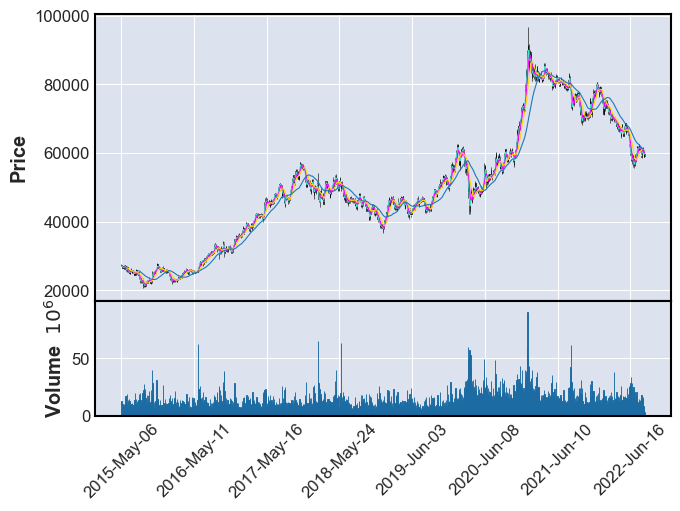
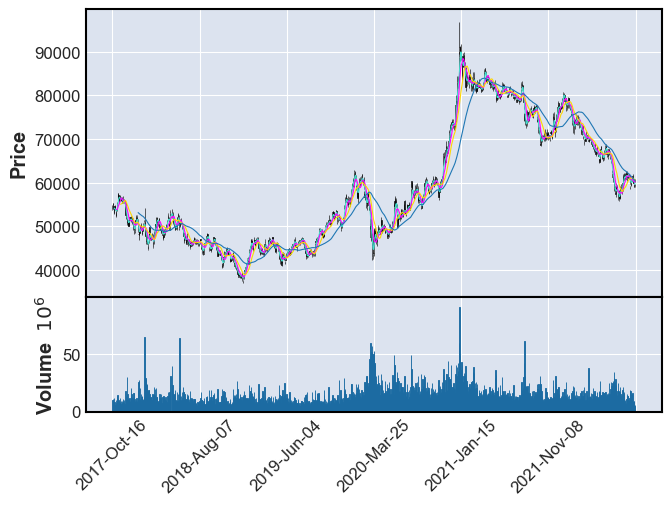
readme update

diff --git a/README.md b/README.md
@@ -54,6 +54,9 @@ import sys
 print(sys.executable)
 ```
 
+    d:\1git\kw_condition\.venv\Scripts\python.exe
+    
+
 ### 1. 객체 생성
 
 
@@ -74,6 +77,9 @@ else:
 kw_obj = KiwoomOpenApiPlus()
 ```
 
+    make instance
+    
+
 ### 2. 서버접속
 * 자동로그인이 설정되어 있는 경우 로그인이 자동으로 처리 되며, 그렇지 않은 경우 팝업 창에서 수동으로 아이디, 비밀번호 정보를 입력해야함 
 - TODO
@@ -85,9 +91,9 @@ kw_obj.tryConnect()
 common_util.process_qt_events(kw_obj.isConnected, 60)
 ```
 
-    * 13:07:02.367131 tryConnect 
-    * 13:07:44.314052 _OnEventConnect 0
-    * 13:07:44.325764 connected_entered 
+    * 10:28:03.288871 tryConnect 
+    * 10:28:10.759517 _OnEventConnect 0
+    * 10:28:10.767524 connected_entered 
     account count: 1, keyboard_boan: 1, firewall: 2
     
 
@@ -142,14 +148,13 @@ kw_obj.get_transaction_result(rqname)
 
 ```
 
-    * 13:08:19.461797 request_transaction  {'rqname': '주식기본정보요청', 'trcode': 'opt10001', 'screen_no': '0001', 'prev_next': 0, 'inputs': {'종목코드': '005930'}}
-    * 13:08:19.528296 _OnReceiveTrData  sScrNo: 0001, rQName: 주식기본정보요청, trCode: opt10001, recordName: , prevNext 0
+    * 10:28:17.061208 _OnReceiveTrData  sScrNo: 9199, rQName: 주식기본정보요청, trCode: opt10001, recordName: , prevNext 0
     
 
 
 
 
-    ['005930', '+76700', '-41300', '59000']
+    ['005930', '+77600', '-41800', '59700']
 
 
 
@@ -177,19 +182,18 @@ print( len(daily_list) )
 daily_list[-5: ] 
 ```
 
-    * 13:08:31.164174 request_transaction  {'rqname': '주식일봉차트조회요청', 'trcode': 'opt10081', 'screen_no': '9200', 'prev_next': 0, 'inputs': {'종목코드': '005930', '기준일자': '20220825', '수정주가구분': '1'}}
-    * 13:08:31.327347 _OnReceiveTrData  sScrNo: 9200, rQName: 주식일봉차트조회요청, trCode: opt10081, recordName: , prevNext 2
+    * 10:28:19.923360 _OnReceiveTrData  sScrNo: 9198, rQName: 주식일봉차트조회요청, trCode: opt10081, recordName: , prevNext 2
     600
     
 
 
 
 
-    [['', '20200330', '47050', '48350', '46550', '47850', '26797395'],
+    [['', '20200331', '48000', '48500', '47150', '47750', '30654261'],
+     ['', '20200330', '47050', '48350', '46550', '47850', '26797395'],
      ['', '20200327', '49600', '49700', '46850', '48300', '39896178'],
      ['', '20200326', '49000', '49300', '47700', '47800', '42185129'],
-     ['', '20200325', '48950', '49600', '47150', '48650', '52735922'],
-     ['', '20200324', '43850', '46950', '43050', '46950', '49801908']]
+     ['', '20200325', '48950', '49600', '47150', '48650', '52735922']]
 
 
 
@@ -221,19 +225,18 @@ daily_list[ -5:]
 
 ```
 
-    * 13:09:07.443514 request_transaction  {'rqname': '주식일봉차트조회요청', 'trcode': 'opt10081', 'screen_no': '9180', 'prev_next': 2, 'inputs': {'종목코드': '005930', '기준일자': '20220825', '수정주가구분': '1'}}
-    * 13:09:07.810523 _OnReceiveTrData  sScrNo: 9180, rQName: 주식일봉차트조회요청, trCode: opt10081, recordName: , prevNext 2
-    1800
+    * 10:28:22.925695 _OnReceiveTrData  sScrNo: 9197, rQName: 주식일봉차트조회요청, trCode: opt10081, recordName: , prevNext 2
+    1200
     
 
 
 
 
-    [['', '20150512', '26900', '27060', '26480', '26620', '10633200'],
-     ['', '20150511', '27200', '27200', '26720', '26720', '9640450'],
-     ['', '20150508', '27320', '27400', '26760', '26760', '9488100'],
-     ['', '20150507', '27240', '27500', '27080', '27400', '10257400'],
-     ['', '20150506', '27800', '27820', '27120', '27240', '13270500']]
+    [['', '20171020', '52800', '54100', '52800', '53840', '8027050'],
+     ['', '20171019', '54700', '54700', '52980', '52980', '12108700'],
+     ['', '20171018', '54820', '55240', '54040', '54760', '10110750'],
+     ['', '20171017', '54020', '55380', '54000', '54800', '10607800'],
+     ['', '20171016', '53980', '54860', '53760', '53920', '9769950']]
 
 
 
@@ -269,11 +272,11 @@ mpf.plot(daily_df, type='candle', mav=(5, 10, 20, 60), volume= True)
 
                  Open   High    Low  Close    Volume
     Date                                            
-    2015-05-06  27800  27820  27120  27240  13270500
-    2015-05-07  27240  27500  27080  27400  10257400
-    2015-05-08  27320  27400  26760  26760   9488100
-    2015-05-11  27200  27200  26720  26720   9640450
-    2015-05-12  26900  27060  26480  26620  10633200
+    2017-10-16  53980  54860  53760  53920   9769950
+    2017-10-17  54020  55380  54000  54800  10607800
+    2017-10-18  54820  55240  54040  54760  10110750
+    2017-10-19  54700  54700  52980  52980  12108700
+    2017-10-20  52800  54100  52800  53840   8027050
     
 
     d:\1git\kw_condition\.venv\lib\site-packages\mplfinance\_arg_validators.py:36: UserWarning: 
@@ -299,12 +302,68 @@ mpf.plot(daily_df, type='candle', mav=(5, 10, 20, 60), volume= True)
     
 
 
+### 7. 전종목 일봉 Excel 출력
+전체 종목의 일봉 데이터를 Excel 로 만든다 
+
+주의사항: 과도한 조회는 오류 팝업 발생 후 재접속 해야 하므로 주의!
+
 
 ```python
+import datetime
+import pandas as pd
+import time
 
+current_time_str = datetime.datetime.now().strftime('%Y%m%d')
+
+for code in kw_obj.code_by_names.values():
+    trcode = 'opt10081'
+    stock_name = kw_obj.getMasterCodeName( code )
+    rqname = '{}: 주식일봉차트조회요청'.format( stock_name ) 
+
+    inputs = {'종목코드': '{}'.format( code ), '기준일자' : current_time_str, "수정주가구분": '1'}
+
+    daily_list = []
+    prev_next = 0
+
+    while True:
+        kw_obj.add_transaction(rqname, trcode, inputs, prev_next = prev_next)
+        common_util.process_qt_events(kw_obj.has_transaction_result(rqname), 5)
+        
+        has_additional_data = kw_obj.has_transaction_additional_data(rqname)
+
+        # result 를 get 해야 다시 동일 rqname 으로 재요청 가능함 
+        daily_list.extend( kw_obj.get_transaction_result(rqname) )
+
+        if( has_additional_data == True ):
+            prev_next = 2
+        else:
+
+            daily_df = pd.DataFrame( daily_list, columns=["StockCode", "Date", "Open", "High", "Low", "Close", "Volume"] )     
+
+            # 일봉 조회의 경우 종목 코드가 2번째 row 부터 공백이므로 삭제 
+            daily_df.drop(columns='StockCode', axis =1, inplace = True)
+
+            # string date -> datetime 
+            daily_df['Date'] = pd.to_datetime( daily_df['Date'], format = '%Y%m%d') 
+
+            # str to int
+            selected_cols = ["Open", "High", "Low", "Close", "Volume"]
+            daily_df[ selected_cols ] = daily_df[selected_cols].astype('int')
+
+            daily_df = daily_df.set_index('Date')
+
+            daily_df = daily_df.sort_values(by= 'Date')
+
+            print(daily_df.head(2))
+
+            # Excel 생성 
+            daily_df.to_excel('{}({}).xlsx'.format( stock_name, code ) )
+            time.sleep(10)
+
+            break
 ```
 
-### 7. 조건 검색 (사용자 설정 조건 리스트 읽기 from HTS)
+### 8. 조건 검색 (사용자 설정 조건 리스트 읽기 from HTS)
 이후 예시의 정상동작을 위해서는 아래에서 사용되는 조건들과 같은 이름을 가지는 조건들이 미리 저장되어 있어야 한다.
 
 참고로 조건들을 편집하고 저장하는건 영웅문 HTS 내부에서만 가능하기 때문에 따로 HTS 를 열어 편집해주어야 한다.
@@ -328,9 +387,9 @@ common_util.process_qt_events(kw_obj.has_condition_names, 5)
 
 ```
 
-### 8. 실시간 조건 검색 
+### 9. 실시간 조건 검색 
 
-### 9. 주문 처리
+### 10. 주문 처리
 
 
 ```python
